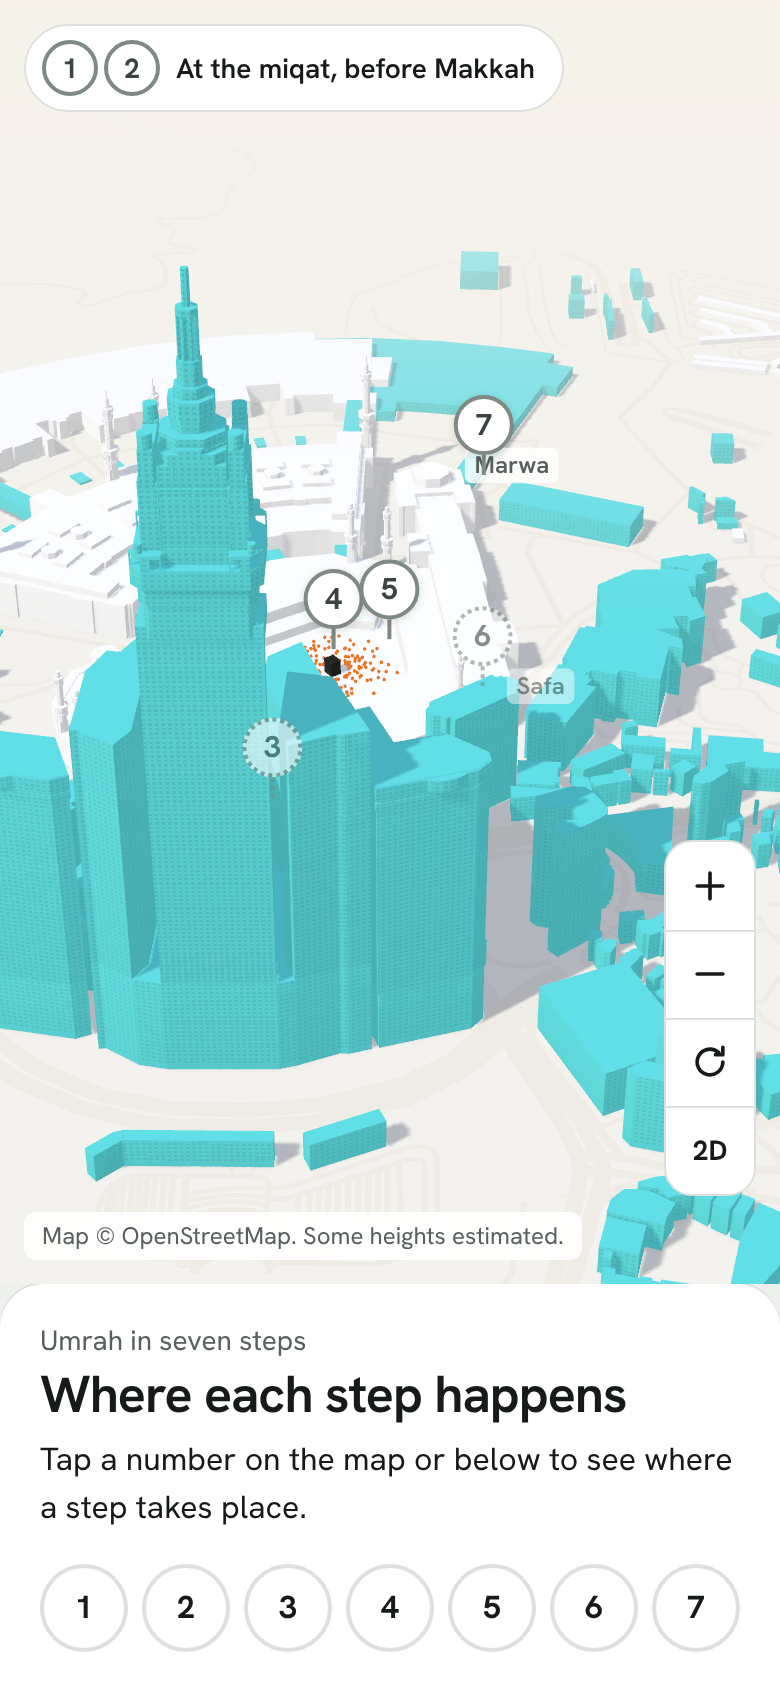
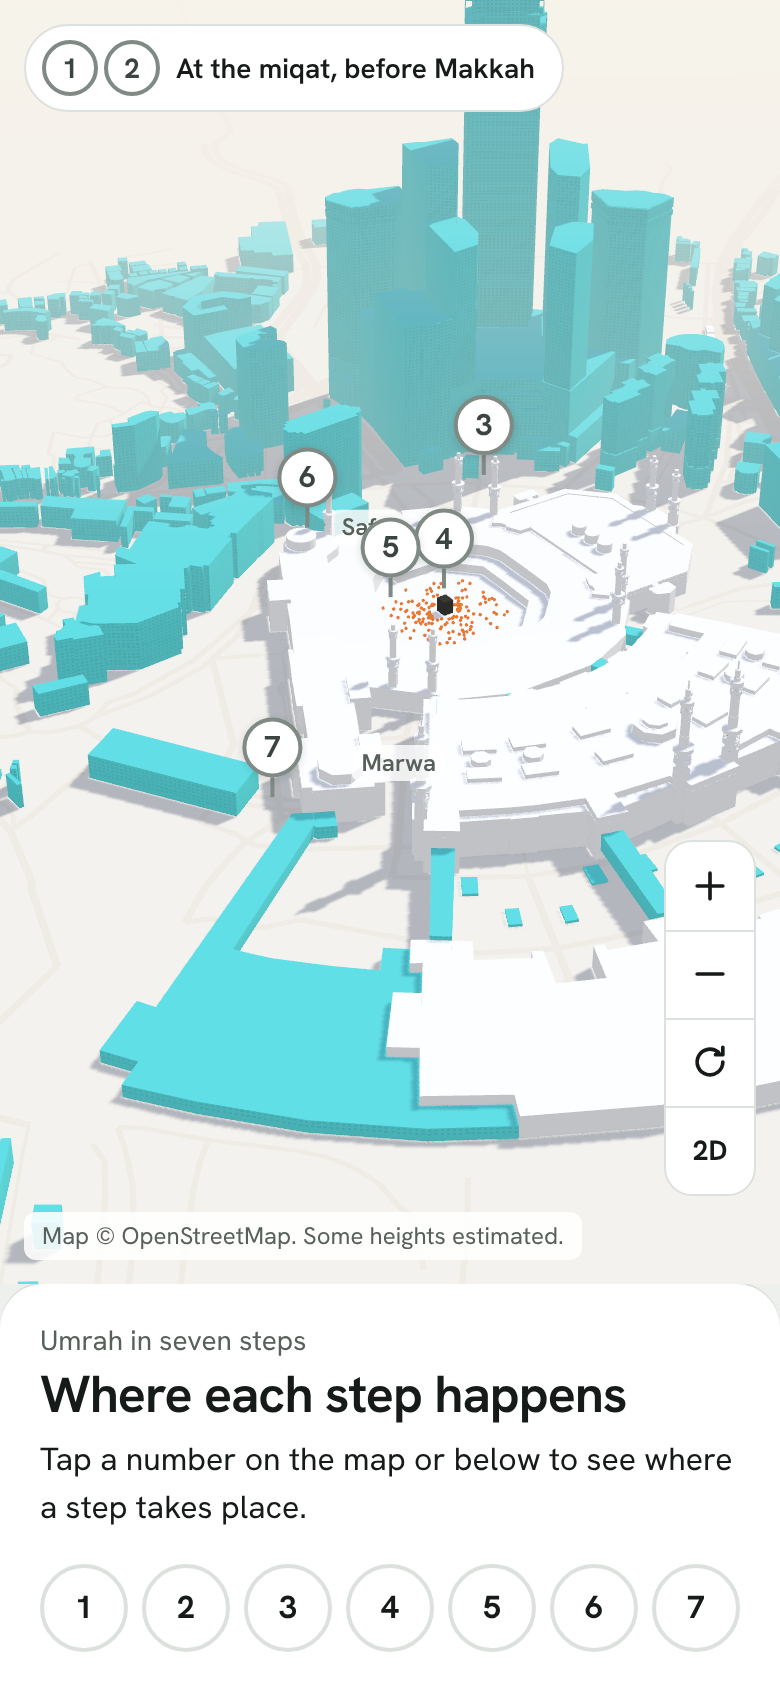
Tilt from the north side so the Clock Towers no longer hide pins
When the map tilts (or flies to a step) from the default north-up view,
the camera now looks from the north. A direction the user has rotated to
is kept.

Claude-Session: https://claude.ai/code/session_01NUgj7sJyWkEi58kYBvQNzB

diff --git a/src/scene/CityScene.ts b/src/scene/CityScene.ts
@@ -70,6 +70,10 @@ const MIN_POLAR = 0.02; // straight down
 const MAX_POLAR = 1.3; // close to the horizon
 const AERIAL_POLAR = 0.4;
 const TILTED_POLAR = 1.0;
+// When the map first tilts from the default north-up view, look from the north
+// side (camera north of the Haram, facing south). From the south the Clock
+// Towers stand in front of the Haram and hide pins; from the north every pin is clear.
+const TILTED_AZIMUTH = Math.PI;
 
 interface TawafNode {
   radius: number;
@@ -476,9 +480,15 @@ export class CityScene {
     this.flyTo(this.overview.center.clone(), dist, AERIAL_POLAR, 0, animate);
   }
 
+  /** The compass direction for a tilted view: the user's own, unless still at the default north-up. */
+  private tiltAzimuth() {
+    const az = this.controls.getAzimuthalAngle();
+    return Math.abs(az) < 0.01 ? TILTED_AZIMUTH : az;
+  }
+
   /** Move in on one point, keeping the current compass direction. */
   focus(pos: [number, number]) {
-    this.flyTo(new THREE.Vector3(pos[0], 0, pos[1]), 720, 0.75, this.controls.getAzimuthalAngle());
+    this.flyTo(new THREE.Vector3(pos[0], 0, pos[1]), 720, 0.75, this.tiltAzimuth());
   }
 
   zoomBy(factor: number) {
@@ -492,7 +502,12 @@ export class CityScene {
   /** Switch between looking straight down and a tilted 3D view. Returns true if now tilted. */
   toggleTilt() {
     const tilted = this.controls.getPolarAngle() > 0.6;
-    this.flyTo(this.controls.target.clone(), this.distance(), tilted ? MIN_POLAR : TILTED_POLAR, this.controls.getAzimuthalAngle());
+    this.flyTo(
+      this.controls.target.clone(),
+      this.distance(),
+      tilted ? MIN_POLAR : TILTED_POLAR,
+      tilted ? this.controls.getAzimuthalAngle() : this.tiltAzimuth(),
+    );
     return !tilted;
   }
 

diff --git a/docs/HANDOVER.md b/docs/HANDOVER.md
@@ -138,7 +138,7 @@ The owner downloaded the OpenStreetMap export by hand through Overpass Turbo; th
 - Only `?look=cyan-light` (the owner's chosen Option A, with their beige ground #efe6d3) draws the real city. The other looks still show the illustrative city for comparison.
 - The owner also supplied the `building:part` export (`data/raw/makkah-haram-parts.json`, gitignored). The bake replaces any outline that contains parts with its parts, so the Clock Towers, hotel towers, minarets and Haram galleries have their mapped heights. The Kaabah, Maqam Ibrahim and Hijr Isma'il stay as simple massing. 349 of 1343 shapes still have estimated heights.
 - The ground is flat: no terrain source yet. Roof shapes (domes, sloping roofs) are drawn flat.
-- In the default tilted view the Clock Tower hides part of the Haram and pin 3. This is real, but how to handle it is a design question for the owner.
+- Tilting from the default north-up view now looks from the north side (owner's choice), so the Clock Towers are behind the Haram and no pin is hidden. Pins that a building does hide are faded with a dotted border.
 - Safa and Marwa pins now come from the ends of the Mas'a walkway in OSM. The other pins are still placeholders.
 - The accent colour to replace the green is still the owner's decision.
 
